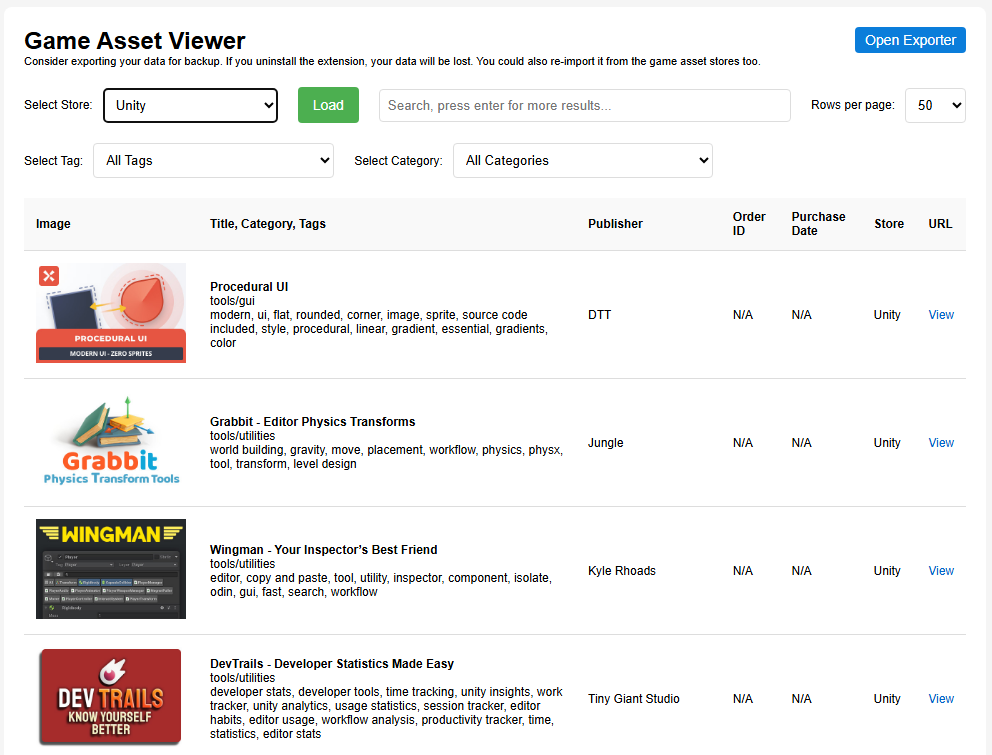
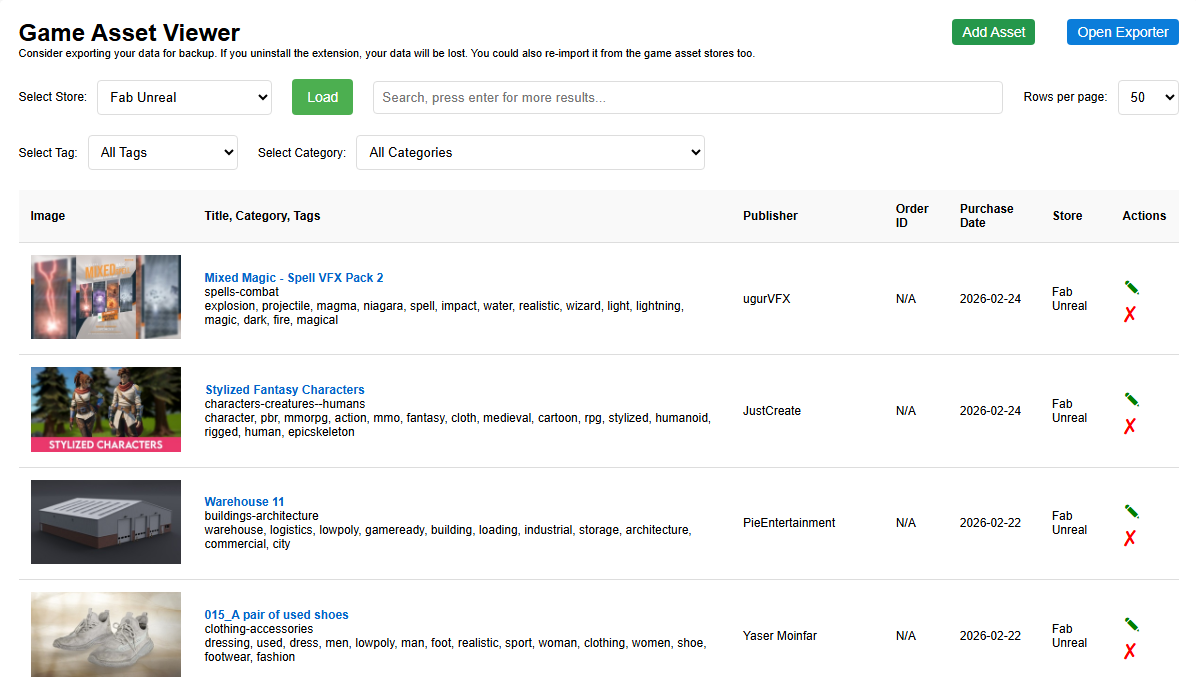
update screenshots for readme

diff --git a/README.md b/README.md
@@ -103,15 +103,17 @@ This extension gathers data from the **Fab Quixel Megascans** store page, whethe
 ## DB Viewer
 To open the viewer page so you can view and filter your assets, click on the popup button labeled "DB Viewer", and it will open a new tab. You'll see a table of your game assets. Above the table is the filter form, and below the table are the pagination links. You may have to refresh this page to show newly imported items. They will be displayed in the order that they were first imported, so stuff imported later may appear in other pages.
 
+![DB Viewer](screenshots/dbviewer.png)
+
 The table includes the image preview, the title (links to open the product details page; category and tags will show if available), publisher, order ID, purchase date, the store it was imported from, and Edit/Delete buttons. The extension tries to get only these details, but some stores don't make this information easily available without having to parse through many pages. So, some details (like Publisher, Order ID, Purchase Date) may not be available depending on the store.
 
 Clicking an "Edit" button or "Add Asset" button will open a dialog to enter asset details.
 
+![Edit Asset Form](screenshots/edit_asset_form.png)
+
 You can quickly filter the table of items by selecting the store, tag, or category. You can further filter items by entering text in the search text box. For quick searches, entering text will filter the existing cache but it won't get other pages. If you click Enter (return) key, then it will do a more extensive search. This search can be filtered/limited to the store dropdown selection, but it won't be filtered by the tag or category selections. The tag and category filters will not be limited by the store dropdown selection, because they are independent filters. Why aren't these extra filters more integrated? It's because more filters increase the complexity and more database filtering functions. That's more code to maintain and probably it won't get much use anyway.
 
 
-
-![DB Viewer](screenshots/dbviewer.png)
 
 ## Exporting Your Data
 In the DB Viewer, click the "Open Exporter" button in the upper right corner. I dialog will appear. Select the file format that you would like to export it to with the "Select Exporter" dropdown, which includes CSV, Excel, JSON, and Text (tab delimited). You can split the export into multiple files by selecting the dropdown labeled "Split files by (pagination)". If there are enough items, then new buttons will appear at the bottom labeled "Export File 1", "Export File 2", and so on. By clicking the "Export All Rows" button, it will export it all into one big file.
